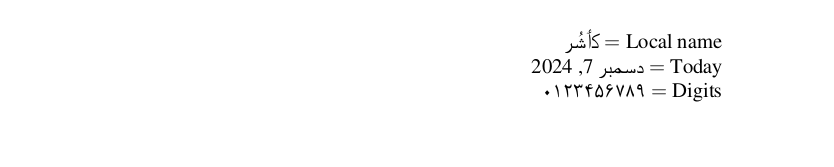
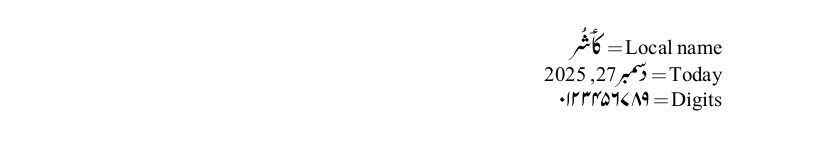
Font in Kashmiri, Saraiki.

Changed region(s): [[0.6235, 0.3293, 0.8729, 0.6587], [0.6859, 0.1497, 0.8729, 0.3293]]

diff --git a/docs/guides/locale-kashmiri.md b/docs/guides/locale-kashmiri.md
@@ -10,7 +10,7 @@ Kashmiri language using the Arabic script.
 ## Support with `ini` locale file
 
 Here is a minimal sample file with `kashmiri` as the main language
-(assuming `luatex`, which is the recommended engine, and `babel` ≥24.14,
+(assuming `luatex`, which is the recommended engine, and `babel` ≥25.2,
 although it may work with previous versions).
 
 ```tex
@@ -18,7 +18,7 @@ although it may work with previous versions).
 
 \usepackage[provide=*,bidi=basic]{babel}
 
-\babelfont{rm}{FreeSerif}
+\babelfont{rm}{AwamiNastaliq}
 
 \begin{document}
 
@@ -36,6 +36,6 @@ Digits $=$ \localenumeral{digits}{0123456789}
 ## Contribute
 
 If you are a native speaker or have expertise in this language, you can
-contribute, make suggestion or request an enhancement by submitting a
+contribute, make suggestions or request enhancements by submitting a
 pull request, opening an issue, or contacting the Babel maintainer with
 the link above.

diff --git a/docs/guides/locale-saraiki.md b/docs/guides/locale-saraiki.md
@@ -10,7 +10,7 @@ Saraiki language using the Arabic script.
 ## Support with `ini` locale file
 
 Here is a minimal sample file with `saraiki` as the main language
-(assuming `luatex`, which is the recommended engine, and `babel` ≥24.14,
+(assuming `luatex`, which is the recommended engine, and `babel` ≥25.2,
 although it may work with previous versions).
 
 ```tex
@@ -18,7 +18,7 @@ although it may work with previous versions).
 
 \usepackage[provide=*,bidi=basic]{babel}
 
-\babelfont{rm}{FreeSerif}
+\babelfont{rm}{AwamiNastaliq}
 
 \begin{document}
 
@@ -32,6 +32,6 @@ Local name $=$ سرائیکی
 ## Contribute
 
 If you are a native speaker or have expertise in this language, you can
-contribute, make suggestion or request an enhancement by submitting a
+contribute, make suggestions or request enhancements by submitting a
 pull request, opening an issue, or contacting the Babel maintainer with
 the link above.
